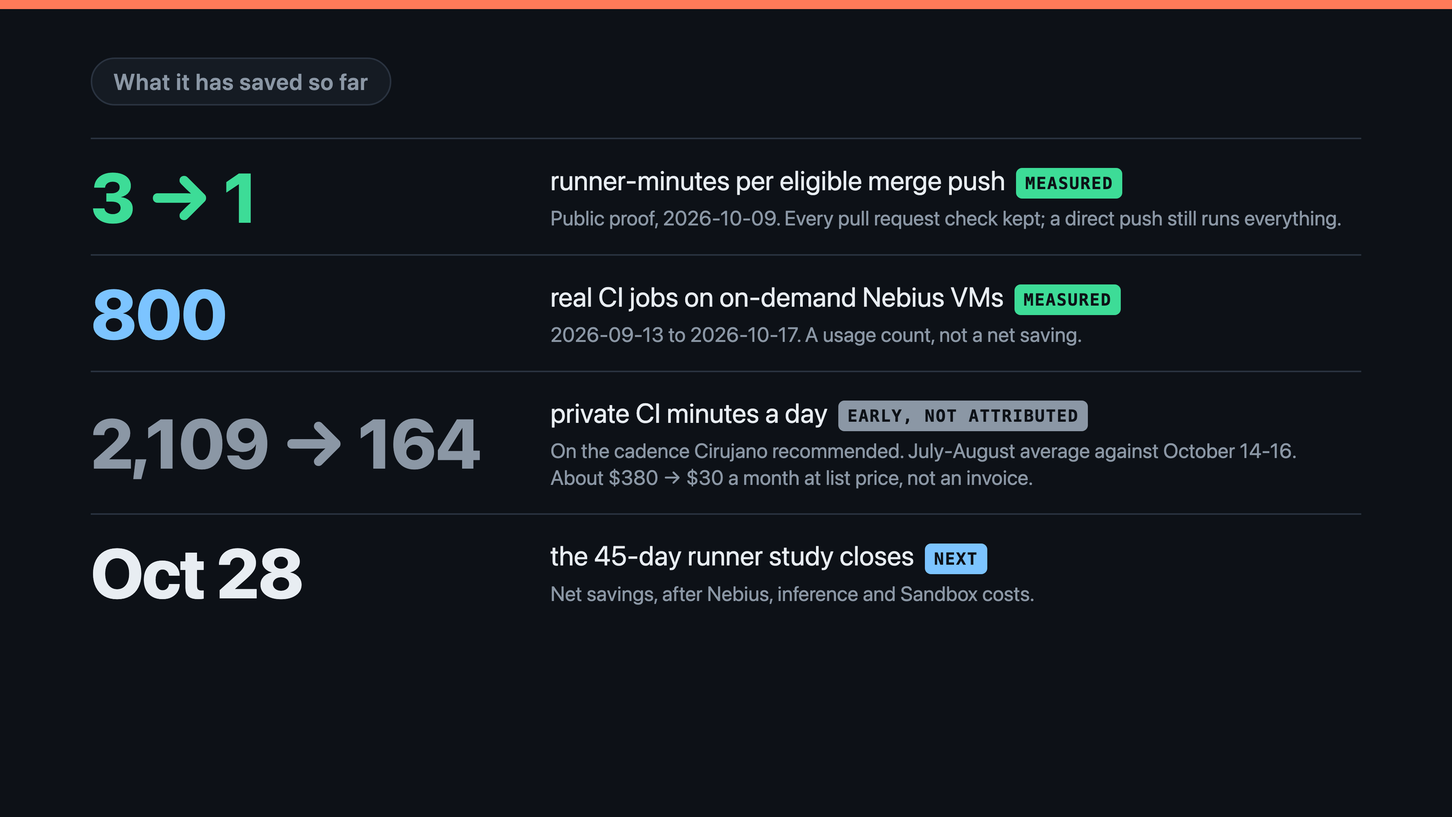
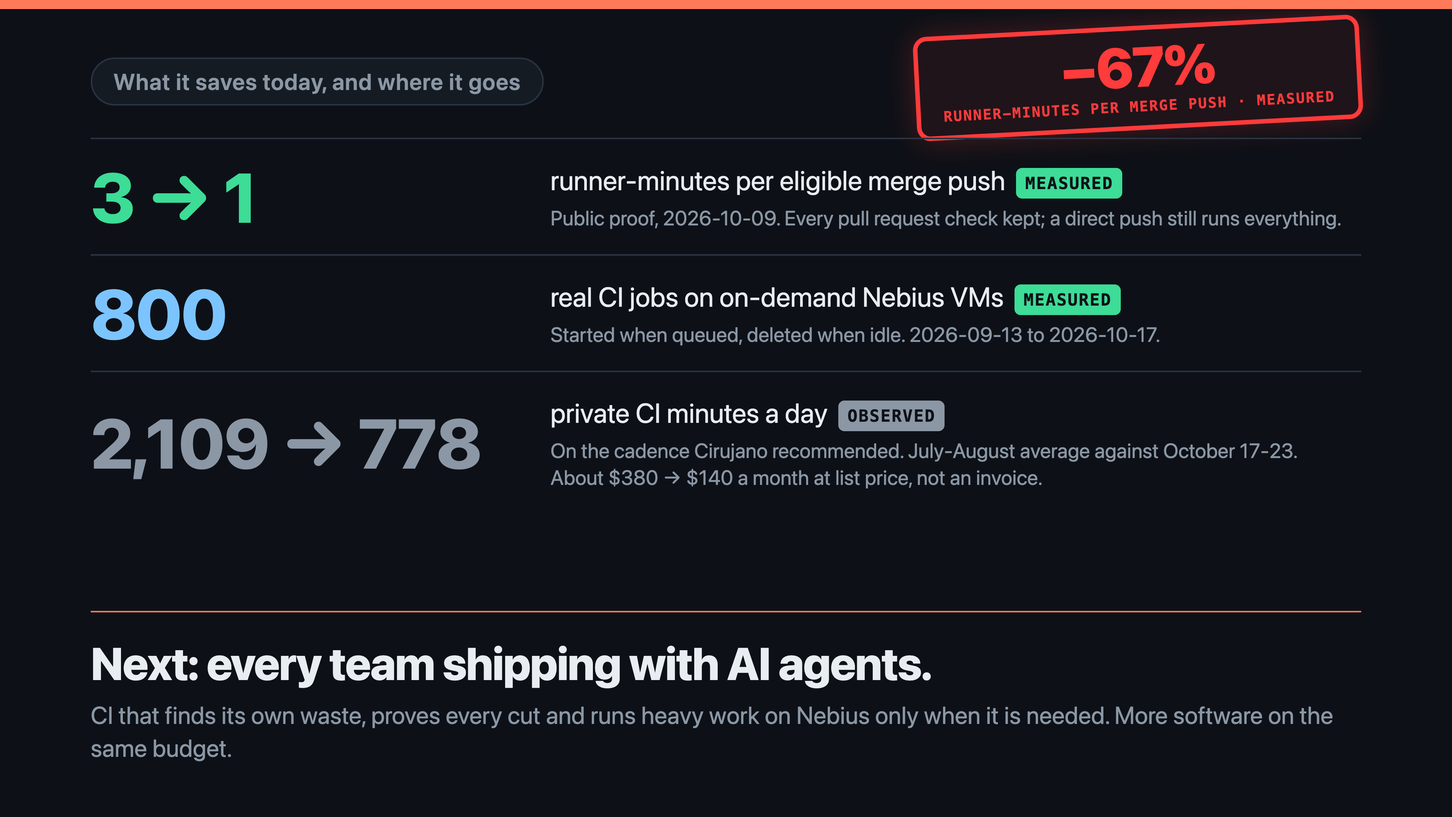
docs(demo): finish the video and record the Devpost submission
- Recording script: beat 5 to 7 split-screen steps, a crash-proof decision
  view for the live runner beat, the correct Nebius project and console URL,
  the together card moved to the end of beat 7, and a vision close for beat 8
- Beat 8 evidence refreshed to October 17-23 (2,109 -> 778 private CI minutes
  a day, about $380 -> $140 a month at list price); the earlier October 14-16
  window was the quietest stretch and is marked superseded
- Results card: red -67% measured stamp, OBSERVED label and a vision footer
- Case study: same refreshed window
- Devpost submission text with an evidence table (850 Nebius jobs as of
  2026-10-24, live 14-minute VM cycle)

Claude-Session: https://claude.ai/code/session_01H8DkZpvQuxZoFbQP57ZCZ9

diff --git a/docs/demo/video-cards/src/results.html b/docs/demo/video-cards/src/results.html
@@ -11,13 +11,20 @@
   .lab.early { background: var(--muted); }
   .lab.next { background: var(--blue); }
   .ok { color: var(--ok); } .blue { color: var(--blue); } .muted { color: var(--muted); }
+  .stamp { position: absolute; top: 22px; right: 120px; transform: rotate(-3deg); border: 6px solid #ff3b3b; border-radius: 18px; padding: 10px 30px 14px; color: #ff3b3b; background: rgba(255,59,59,.08); text-align: center; box-shadow: 0 0 40px rgba(255,59,59,.25); }
+  .stamp b { display: block; font-size: 74px; font-weight: 900; letter-spacing: -.03em; line-height: 1; }
+  .stamp span { display: block; font-family: var(--mono); font-size: 19px; font-weight: 700; letter-spacing: .08em; margin-top: 6px; }
+  .vision { position: absolute; left: 120px; right: 120px; bottom: 70px; border-top: 2px solid var(--accent); padding-top: 34px; }
+  .vision b { display: block; font-size: 60px; font-weight: 800; letter-spacing: -.02em; line-height: 1.1; color: var(--ink); }
+  .vision span { display: block; font-size: 32px; color: var(--muted); margin-top: 14px; line-height: 1.35; }
 </style></head>
 <body>
-  <div class="tag">What it has saved so far</div>
+  <div class="tag">What it saves today, and where it goes</div>
+  <div class="stamp"><b>−67%</b><span>RUNNER-MINUTES PER MERGE PUSH · MEASURED</span></div>
   <div class="wrap">
     <div class="row"><div class="num ok">3 → 1</div><div class="txt">runner-minutes per eligible merge push<span class="lab">MEASURED</span><small>Public proof, 2026-10-09. Every pull request check kept; a direct push still runs everything.</small></div></div>
-    <div class="row"><div class="num blue">800</div><div class="txt">real CI jobs on on-demand Nebius VMs<span class="lab">MEASURED</span><small>2026-09-13 to 2026-10-17. A usage count, not a net saving.</small></div></div>
-    <div class="row"><div class="num muted">2,109 → 164</div><div class="txt">private CI minutes a day<span class="lab early">EARLY, NOT ATTRIBUTED</span><small>On the cadence Cirujano recommended. July-August average against October 14-16.<br>About $380 → $30 a month at list price, not an invoice.</small></div></div>
-    <div class="row"><div class="num">Oct 28</div><div class="txt">the 45-day runner study closes<span class="lab next">NEXT</span><small>Net savings, after Nebius, inference and Sandbox costs.</small></div></div>
+    <div class="row"><div class="num blue">800</div><div class="txt">real CI jobs on on-demand Nebius VMs<span class="lab">MEASURED</span><small>Started when queued, deleted when idle. 2026-09-13 to 2026-10-17.</small></div></div>
+    <div class="row"><div class="num muted">2,109 → 778</div><div class="txt">private CI minutes a day<span class="lab early">OBSERVED</span><small>On the cadence Cirujano recommended. July-August average against October 17-23.<br>About $380 → $140 a month at list price, not an invoice.</small></div></div>
   </div>
+  <div class="vision"><b>Next: every team shipping with AI agents.</b><span>CI that finds its own waste, proves every cut and runs heavy work on Nebius only when it is needed. More software on the same budget.</span></div>
 </body></html>

diff --git a/docs/demo/recording-script.md b/docs/demo/recording-script.md
@@ -29,8 +29,8 @@ Pages Claude loads, in capture order:
 | C | [Evidence PR #8](https://github.com/juan294/cirujano-push-proof/pull/8) | Body at **Model requested**, token counts and the **Sandbox** line, then the measurement table. Read back OPEN on 2026-10-17, base `d5dc444`, head `b359f3b`. |
 | D | [PR #8 Files changed](https://github.com/juan294/cirujano-push-proof/pull/8/files) | The `cirujano_validated_push` job and one added job condition. Do not scroll the embedded classifier. |
 | E | [PR run](https://github.com/juan294/cirujano-push-proof/actions/runs/37920229570), [optimized push](https://github.com/juan294/cirujano-push-proof/actions/runs/37920318553), [direct-push control](https://github.com/juan294/cirujano-push-proof/actions/runs/37920425565) | Lint, test and build green; then the skipped jobs; then every job green on the control. |
-| F | Nebius AI Cloud console → Cirujano project → **Compute → Virtual machines** (Chrome, signed in) | Starts at "No standalone VMs". Used only in beat 6. |
-| G | [Cirujano Actions](https://github.com/juan294/cirujano/actions) | The Sutura rows "Repair requested: CI #110 (failure)" and "No repair needed: CI #114 (success)". |
+| F | Nebius AI Cloud console → project `default-project-eu-west1` (the P5 project) → **Compute → Virtual machines**, URL `console.nebius.com/<project id>/compute` (Chrome, signed in; `/compute/instances` renders blank) | Starts at "No standalone VMs". Used only in beat 6. |
+| G | [Sutura repair monitor runs, October 14-15](https://github.com/juan294/cirujano/actions/workflows/sutura.yml?query=created%3A2026-10-14..2026-10-15) | Five rows: "No repair needed: CI #114 (success)" on top, "Repair requested: CI #110 (failure)" at the bottom. The unfiltered list starts with newer rows (on 2026-10-24 a red `develop` and failed monitor runs), so keep the date filter. |
 
 Terminal (large font, dark theme), in the repository root. Stage the API reads before recording; run only the two `estimate` commands on camera:
 
@@ -43,13 +43,13 @@ node packages/cli/dist/bin.js estimate --jobs /tmp/cirujano-demo-candidate-jobs.
 
 Expected: `Billable minutes: 3` with 0 skipped jobs, then `Billable minutes: 1` with 3 skipped jobs (re-checked 2026-10-17). If `packages/cli/dist` is missing, run `pnpm run build` first. Never fake terminal output.
 
-**Cards** (still 3840x2160 images for the editor) are in [video-cards](video-cards/): `0-intro-card.png` (beat 0, 10 seconds; `0-intro-card-youtube-thumbnail.jpg` is the YouTube thumbnail), `1-vision.png` (beat 1), `2-same-tree-illustration.png` (beat 2, labeled "Illustration"), `3-together.png` (beat 7), `4-results.png` (beat 8) and `5-end-card.png` (beat 8, silent hold). Sources, the stylesheet and the renderer are in [video-cards/src](video-cards/src/); after a text change run `zsh docs/demo/video-cards/src/render.sh`.
+**Cards** (still 3840x2160 images for the editor) are in [video-cards](video-cards/): `0-intro-card.png` (beat 0, 10 seconds; `0-intro-card-youtube-thumbnail.jpg` is the YouTube thumbnail), `1-vision.png` (beat 1), `2-same-tree-illustration.png` (beat 2, labeled "Illustration"), `3-together.png` (beat 7, last 5 seconds), `4-results.png` (beat 8) and `5-end-card.png` (beat 8, silent hold). Sources, the stylesheet and the renderer are in [video-cards/src](video-cards/src/); after a text change run `zsh docs/demo/video-cards/src/render.sh`.
 
 **Live run (beat 6) preflight.** The run starts a billable Nebius VM, so it needs Juan's explicit go at recording time; preparation alone does not authorize it. Check that the P5 controller is alive (`launchctl list | grep cirujano-runner-P5`) and idle with no VM (`tail -1 ~/Library/Logs/cirujano/runner-P5.log` shows `"state":"absent"`; it did at 2026-10-18 13:5x local). The repository and coverage workflow behind handle P5 are in the gitignored `docs/agents/fleet-migration-targets.md`.
 
 ## Script
 
-The narration is 389 words including the intro: 2:36 at 150 words per minute, 3:00 at 130. Eric on ElevenLabs speaks about 2.4 words per second, about 2:40. Beat 8 has 87 words, about 36 seconds of speech, so the end card holds about 10 seconds in silence. Timestamps are editing targets; the recorded clips set the final lengths.
+The narration is 426 words including the intro (beat 6 gained one sentence and beat 8 became a vision close on 2026-10-24): 2:50 at 150 words per minute. Eric on ElevenLabs speaks about 2.4 words per second. Beat 8 has 111 words, 43.4 seconds of speech; fitted to 46 seconds, the end card holds about 2 seconds in silence and the video ends at 2:55. Timestamps are editing targets; the recorded clips set the final lengths.
 
 ### 0. Intro | 0:00-0:10
 
@@ -93,7 +93,40 @@ The narration is 389 words including the intro: 2:36 at 150 words per minute, 3:
 
 ### 5. The receipts | 1:14-1:33
 
-**Show:** the terminal, run both `estimate` commands (3, then 1). Then Tab C's measurement table, pausing on baseline 3 and candidate 1. Then Tab E's direct-push control with every job green.
+**Show: full screen, split.** Left half: Dia with GitHub. Right half: the terminal, covering the Chrome window. No Claude window on screen; you run every step yourself from this list.
+
+Set up before recording (Claude preps the two Dia tabs on "prep 5"; done 2026-10-24):
+
+1. Dia tab 1: [PR #8](https://github.com/juan294/cirujano-push-proof/pull/8) at zoom 1.2 (1.4 is too wide for the half screen and hides the Billed min column), scrolled so the lines "Sandbox: sandbox-verified; network disabled" and "Sandbox guard matrix: 69 cells, 0 mismatches; classifier cases: 60" sit just above the measurement table.
+2. Dia tab 2: the [direct-push control run](https://github.com/juan294/cirujano-push-proof/actions/runs/37920425565) at zoom 1.2, top of the page (lint, test and build green).
+3. Dia tab 1 in front. Mouse pointer off the table.
+4. Terminal on the right half, in the repository root, dark theme, font about 24 pt. Turn off autosuggestions and history overlays (an old command could show a private repository name). The job files in `/tmp` are staged by Claude on "prep 5" (checked 2026-10-24: both present, estimates print 3 and 1):
+
+   ```sh
+   cd ~/code/cirujano
+   clear
+   ```
+
+Recording, about 20 seconds:
+
+1. Start recording. Hold about 5 seconds on the Sandbox lines (sentence 1).
+2. In the terminal, run and hold about 2 seconds. Expect `Billable minutes: 3`, `Skipped jobs: 0`:
+
+   ```sh
+   node packages/cli/dist/bin.js estimate --jobs /tmp/cirujano-demo-baseline-jobs.json
+   ```
+
+3. Run and hold about 2 seconds. Expect `Billable minutes: 1`, `Skipped jobs: 3`:
+
+   ```sh
+   node packages/cli/dist/bin.js estimate --jobs /tmp/cirujano-demo-candidate-jobs.json
+   ```
+
+4. In Dia, scroll a little so the baseline rows (3) and candidate rows (1) sit in the middle. Hold about 4 seconds.
+5. Click Dia tab 2, the control run. Hold about 4 seconds on the green lint, test and build jobs.
+6. Stop recording. Save as `~/Desktop/Cirujano Demo/split-5.mp4`.
+
+If the clip is shorter than about 19 seconds, `fit-voice.sh 5` speeds the voice up to 1.2; past that, cut "Then GitHub measured it." from the Say block.
 
 **Say:**
 
@@ -103,26 +136,48 @@ The narration is 389 words including the intro: 2:36 at 150 words per minute, 3:
 
 **Show: a live run, split screen, sped up.** Left half: the terminal with the controller's decision view (below). Right half: Tab F, **Virtual machines**, starting from "No standalone VMs". Caption in the editor: **Live run, sped up**.
 
-1. Start the decision view in the left terminal:
+Set up before recording (Claude checks the controller and parks the Chrome tab on "prep 6"):
+
+1. Chrome (right half): signed in to the Nebius console, project `default-project-eu-west1`, **Compute → Virtual machines**, showing "No standalone VMs". Chrome zoom 125% (Cmd+= twice; it survives reloads). Claude parks this tab. Do not touch it during the take; Claude reloads it.
+2. Terminal (left half, covering Dia): dark theme, font about 24 pt, autosuggestions off. Start the decision view and leave it running:
 
    ```sh
-   tail -n 0 -F ~/Library/Logs/cirujano/runner-P5.log | jq -r --unbuffered 'select(.decision) | "\((.queue.observedAtMs // 0)/1000 | strftime("%H:%M:%S"))  \(.decision.state)  \(.decision.effect.type)  \(.decision.reason)"' | awk '{k=$0; sub(/^[^ ]+  /,"",k); if(k!=p){print; fflush(); p=k}}'
+   clear
+   tail -n 0 -F ~/Library/Logs/cirujano/runner-P5.log | jq -R -r --unbuffered 'fromjson? | select(.decision) | "\((.queue.observedAtMs // 0)/1000 | strftime("%H:%M:%S"))  \(.decision.state)  \(.decision.effect.type)  \(.decision.reason)"' | awk '{k=$0; sub(/^[^ ]+  /,"",k); if(k!=p){print; fflush(); p=k}}'
    ```
 
-   It prints one line per state change (UTC) and no repository name.
-2. After Juan's go, Claude dispatches the P5 coverage workflow off camera: `gh workflow run <P5 coverage workflow> -R <P5 repository> --ref develop`. A manual run of an existing workflow, no commit. The enrolled job runs on the Cirujano label only for a `develop` push or an owner `workflow_dispatch`.
-3. Claude reloads the Virtual machines page every 8 to 10 seconds, with a 3-second settle after each reload, in short batches (a browser action times out after about 90 seconds).
-4. Expected sequence, from the 2026-10-18 cycle on P5: `create-vm` within 30 seconds of dispatch; VM **Running** about 2.5 minutes in; `register-runner` and `busy` about 4 minutes in; job done and `begin-drain` about 6.5 minutes in; `stop-vm` after the idle grace, about 13 minutes in; `delete-vm` about 14 minutes in, and the console is empty again.
+   It prints one line per state change (UTC) and no repository name. `fromjson?` skips the plain-text lines the controller writes when it restarts; without it `jq` stops at the first one.
+3. The Claude window stays off screen (another desktop) but reachable: you type "go 6" in it.
+
+Recording, about 15 minutes of real time:
+
+1. Start recording. Hold about 5 seconds on the empty terminal and "No standalone VMs".
+2. Type "go 6" in the off-screen Claude window, then return to the recorded screen. This is the authorization for the billable VM.
+3. Claude dispatches the P5 coverage workflow off camera (`gh workflow run` on the P5 repository, `--ref develop`; a manual run of an existing workflow, no commit) and reloads the Virtual machines page every 8 to 10 seconds, with a 3-second settle after each reload.
+4. Do nothing on screen. Expected sequence, from the 2026-10-18 and 2026-10-23 cycles on P5: `create-vm` within 30 seconds of dispatch; VM **Running** about 2.5 minutes in; `register-runner` and `busy` about 5 minutes in; job done and `begin-drain` about 9 minutes in; `stop-vm` after the idle grace, about 13 to 28 minutes in; `delete-vm` about 2 minutes after `stop-vm`, and the console shows "No standalone VMs" again. A `blocked` line can appear for one tick between `busy` and `begin-drain`; it clears on its own.
+5. When Claude answers "done" (the `delete-vm` line is printed and the console is empty), hold 3 seconds and stop recording. Save as `~/Desktop/Cirujano Demo/split-6.mp4`. Stop the decision view with Ctrl+C.
 
 Compress the 14 minutes to about 20 seconds; keep the `create-vm`, `busy`, `stop-vm` and `delete-vm` lines readable for a second each. The GitHub run page names the private repository, so it stays off camera. Fallback if the run is not authorized or fails: use the runner pilot record ([R14 rows](../research/2026-09-15-nebius-runner-pilot-r14.md)) with the caption **Recorded, 2026-09-15**, and change "This is live" to "Here it is".
 
 **Say:**
 
-> Work that can't be cut moves to Nebius AI Cloud. This is live: a job queues, Cirujano starts a VM, the job runs, and once the queue is empty the VM stops and is deleted. 800 of my real CI jobs have already run this way.
+> Work that can't be cut moves to Nebius AI Cloud. This is live: a job queues, Cirujano starts a VM, the job runs, and once the queue is empty the VM stops and is deleted. The whole cycle took fourteen minutes, shown here sped up. 800 of my real CI jobs have already run this way.
 
 ### 7. Sutura and Cirujano | 1:53-2:08
 
-**Show:** `3-together.png`, then Tab G with the two Sutura rows. Do not start a Sutura walkthrough.
+**Show:** Tab G in Dia with the two Sutura rows, then `3-together.png` as an editor cutaway over the last 5 seconds of the clip, on "The developer is the doctor" (its middle panel reads "Developer, Signs off"). The cutaway covers clip time; it does not add length. Do not start a Sutura walkthrough.
+
+Set up before recording (Claude parks the tab on "prep 7"; done 2026-10-24):
+
+1. Dia (left half): Tab G at zoom 1.2, date filter `created:2026-10-14..2026-10-15` in the search box, the GitHub notice banner dismissed. Do not reload (page-code zoom resets).
+2. Right half: anything neutral, or Dia full screen. Mouse pointer off the rows.
+
+Recording, about 15 seconds:
+
+1. Start recording. Hold about 3 seconds on the whole list.
+2. Move the pointer to the bottom row, "Repair requested: CI #110 (failure)", and hold about 4 seconds (sentence 1: Sutura triages red CI).
+3. Move the pointer to the top row, "No repair needed: CI #114 (success)", and hold about 4 seconds.
+4. Move the pointer away and hold about 4 seconds. Stop recording. Save as `~/Desktop/Cirujano Demo/split-7.mp4`.
 
 **Say:**
 
@@ -130,11 +185,11 @@ Compress the 14 minutes to about 20 seconds; keep the `create-vm`, `busy`, `stop
 
 ### 8. What it saved me, and close | 2:08-2:55
 
-**Show:** `4-results.png`. Point at the measured line first, then the early line with its **EARLY, NOT ATTRIBUTED** label in frame, then **Oct 28**. Cut to `5-end-card.png` on "Cirujano: keep every check" and hold it in silence to 2:55.
+**Show:** `4-results.png`: the red −67% stamp and the 3 → 1 row first, then 2,109 → 778 (**OBSERVED**), then the vision line "Next: every team shipping with AI agents" on "Now scale that". Cut to `5-end-card.png` on "Cirujano: keep every check" and hold it in silence to 2:55. No screen recording: beat 8 is the two cards over `voice-8.mp3` (45.9 s, fitted with `fit-voice.sh 8=46`). In that file "Now scale that" starts at 20.6 s, "Cirujano: keep every check" at 36.7 s and "Thank you" ends at 44.0 s: show the vision line from 20.6 s and cut to the end card at 36.7 s.
 
 **Say:**
 
-> What has it saved me? Measured: two of every three runner-minutes on merged pushes, with every check kept. Observed: on the new cadence, my private repositories used 164 CI minutes a day instead of about 2,100, roughly 30 dollars a month instead of 380 at list price. Activity changed too, so I don't count that as Cirujano's saving yet. Next, the runner study closes on October 28 to measure net cost. Cirujano: keep every check, cut every wasted dollar. Built on Nebius, with NVIDIA Nemotron. Thank you.
+> What has it saved me? On the proof, two of every three runner-minutes on merged pushes, with every check kept. And since my private repositories moved to the cadence Cirujano recommended, CI dropped from about 2,100 minutes a day to under 800, from about 380 dollars a month to 140. Now scale that. Every team shipping with AI agents pays to run the same checks again and again. Cirujano turns that waste into shipped software: CI that finds its own waste, proves every cut, and runs heavy work on Nebius only when it is needed. Cirujano: keep every check, cut every wasted dollar. Built on Nebius, with NVIDIA Nemotron. Thank you.
 
 ## Rehearse three times, then capture
 
@@ -143,7 +198,7 @@ Compress the 14 minutes to about 20 seconds; keep the `create-vm`, `busy`, `stop
 3. **Full practice.** Speak while switching views. Watch it back once: can a stranger see the guard in the diff, see 3 become 1, see a VM start and stop on Nebius, and tell measured savings from the early observation? Re-record the weak beat, not the whole video.
 4. **Capture.** One clip per beat. Measure them before the voice-over: `for i in 1 2 3 4 5 6 7 8; do ffprobe -v error -show_entries format=duration -of csv=p=0 ~/Desktop/"Cirujano Demo"/split-$i.mp4; done`. Beats 1 to 8 plus the 10-second intro must stay under 3:00; take any excess from beat 8's silent end-card hold.
 
-**Refresh the account numbers the morning you record.** Beat 8 uses October 14-16. Ask Claude to re-read the billing API; if the window changes, update the Say block, `results.html` and the Evidence table together, then re-render the cards.
+**Refresh the account numbers the morning you record.** Beat 8 uses October 17-23 (refreshed 2026-10-24; the earlier October 14-16 window, 164 minutes a day, turned out to be the quietest stretch and was replaced). Ask Claude to re-read the billing API; if the window changes, update the Say block, `results.html` and the Evidence table together, then re-render the cards.
 
 ## Voice-over and assembly
 
@@ -194,14 +249,14 @@ The Cirujano proof did not use Sutura's Nemotron Super and Ultra roles, Nebius C
 | Measured mechanism | **3 → 1** rounded runner-minutes per eligible merge push (66.7%) | Three sampled pushes on a public repository: **$0** invoice effect. Direct-push control billed 4. Not human waiting time. |
 | Measured usage | **800** Cirujano jobs, 3,297 minutes on Nebius VMs, 2026-09-13 to 2026-10-17 | A usage count. Fleet report: **$18.84** gross hosted list cost avoided against **$19.87** controller-accounted Nebius cost; accounting incomplete, net savings unavailable. |
 | Measured inference | **$0.00012**, 1,115 tokens for the live Nemotron decision | One proof decision, not a fleet cost. |
-| Observed, not attributed | Private-repository CI **2,109 → 164** minutes a day (about **$380 → $30** a month at list price) | July-August average against October 14-16. Activity not normalized; release work in the heaviest repository was paused. List price before included minutes and provider costs. |
+| Observed, not attributed | Private-repository CI **2,109 → 778** minutes a day (about **$380 → $140** a month at list price) | July-August average against October 17-23, the first seven full days with the lean cadence on every private repository. Daily values that week ranged from 157 to 1,297 minutes. Activity not normalized. List price before included minutes and provider costs. |
 | GitHub Actions bill | Net **$370.64** July, **$401.78** August, **$81.16** September, **$102.08** October 1-18 | The September drop started before any Cirujano change shipped. Do not attribute it. |
 | Modeled | About **$120** a month net from packing heavy jobs onto shared VMs | Assumes four concurrent runner slots; implemented runners have one slot per enrollment. |
 | Pending | Net runner savings and developer hours | The 45-day runner window closes 2026-10-28; closing it does not guarantee a complete net result. Hours are unmeasured. |
 
 If a judge asks "How much has it saved you?":
 
-> On the controlled proof, two of every three runner-minutes on eligible merge pushes, with every check kept. Since my private repositories moved to the cadence Cirujano recommended, CI fell from about 2,100 minutes a day to 164, but activity also changed, so I don't claim it as a Cirujano saving. The runner study reports net cost after October 28.
+> On the controlled proof, two of every three runner-minutes on eligible merge pushes, with every check kept. Since my private repositories moved to the cadence Cirujano recommended, CI fell from about 2,100 minutes a day to about 780 in the first full week, but activity also changed, so I don't claim it as a Cirujano saving. The runner study reports net cost after October 28.
 
 ## How the products work together
 
@@ -217,9 +272,9 @@ If a judge asks "How much has it saved you?":
 | Tempting line | Why not |
 | --- | --- |
 | "Cirujano cut my bill from $386 to $81." | September's drop began before any Cirujano change shipped; the heaviest repository fell to about 10 minutes a day from 2026-08-22. |
-| "It saves me $350 a month" or "$4,000 a year." | The 164-minute window is three days, activity is not normalized and the figure is list price. |
+| "It saves me $240 a month" or "$2,900 a year." | The 778-minute window is one week, activity is not normalized and the figure is list price. Do not quote the old 164-minute figure: it was the quietest three days. |
 | "The runners save money" or "break even." | $18.84 avoided against $19.87 of Nebius cost, with incomplete accounting. |
-| "92 percent cheaper" or "CI is 67 percent faster." | 92 percent is the unattributed observation; 66.7 percent is rounded runner-minutes on three sampled pushes, not delivery time. |
+| "63 percent cheaper" or "CI is 67 percent faster." | 63 percent is the unattributed observation; 66.7 percent is rounded runner-minutes on three sampled pushes, not delivery time. |
 | "Sutura fixed my failing runs." | The Actions rows show a repair request, not a completed repair. |
 | "Cirujano is the nurse" or "Sutura is the surgeon." | Owner metaphor rule, 2026-10-18. |
 | Calling recorded footage live. | Only beat 6 is executed during the recording. PR #8 and its runs are a recorded live result from 2026-10-09. |
@@ -240,7 +295,7 @@ If a judge asks "How much has it saved you?":
 | VM starts on queue, stops and is deleted when idle | P5 controller log, 2026-10-18: `create-vm` 09:25:05Z, `busy` 09:29:20Z, `stop-vm` 09:38:06Z, `delete-vm` 09:39:15Z; [runner pilot](../research/2026-09-15-nebius-runner-pilot-r14.md) | VERIFIED 2026-10-18 |
 | 800 real CI jobs on Nebius | Scheduled fleet telemetry, 2026-09-13 to 2026-10-17T04:17Z: 800 Cirujano jobs, 3,297 minutes | VERIFIED usage; not a savings claim |
 | Audit recommended the cadence; Sutura coordinates it and requests repairs | [Cadence assessment](../research/2026-10-02-ci-cadence-assessment.md); owner decision 2026-10-16; public Actions row "Repair requested: CI #110 (failure)", 2026-10-14 | VERIFIED; a request is not a completed repair |
-| 164 instead of about 2,100 minutes a day; $30 instead of $380 at list price | Billing usage API, private repositories: 2,109 min and $12.66 list a day (July-August) against 164 min and $0.98 a day (October 14-16), times 30 | VERIFIED observation 2026-10-17; NOT attributed |
+| About 780 instead of about 2,100 minutes a day; $140 instead of $380 at list price | Billing usage API, private repositories: 2,109 min and $12.66 list a day (July-August) against 778 min and $4.67 a day (October 17-23), times 30. Same method reproduces the earlier 164-minute figure for October 14-16 | VERIFIED observation 2026-10-24; NOT attributed |
 | Runner study closes October 28 | 45-day matched window of the enrolled migrations | VERIFIED date; result pending |
 
 **Gross, discount and net, re-derived 2026-10-18** from the billing usage API pulls of 2026-10-17. Fully discounted usage (free public-repository minutes) grew from $132.57 gross in August to $284.30 in September; the remaining gross fell from $414.32 to $89.03. The larger "discount" is therefore mostly public minutes, which cost nothing, and the bill fell because private usage fell. Neither product is credited with it.

diff --git a/docs/demo/devpost-submission.md b/docs/demo/devpost-submission.md
@@ -1,0 +1,117 @@
+# Cirujano: Devpost submission text
+
+Prepared 2026-10-24 for the Nebius x NVIDIA Global AI Hackathon (track: Coding and Agentic Engineering). Evidence refreshed the same day; sources are in the table at the end. Private repository names stay out of this file.
+
+## Project name
+
+Cirujano
+
+## Elevator pitch (200 characters max)
+
+AI surgeon for your CI bill: NVIDIA Nemotron finds the waste, Nebius Sandboxes prove every cut keeps every check, and heavy jobs run on Nebius VMs that exist only while they work.
+
+## Video
+
+https://youtu.be/9c0nXuZfiOU
+
+## About the project
+
+## Inspiration
+
+I run more than twenty projects with AI coding agents. They push all day, and every push ran the full CI suite again. My GitHub Actions bill hit **$370 in July and $402 in August**. The agents made me faster, and CI made me pay for it twice.
+
+Every team adopting coding agents is heading for the same wall: more pushes, the same checks run over and over, and a bill that grows with every commit. Deleting tests is not the answer. Cutting the waste is.
+
+## What it does
+
+**Cirujano** (Spanish for *surgeon*) operates on CI that works but costs too much. Its sibling entry, [Sutura](https://github.com/juan294/sutura), is the nurse for CI that breaks. The developer is the doctor who signs off on both.
+
+1. **Diagnose.** Cirujano reads GitHub Actions billing and run history and ranks where the minutes go.
+2. **Prescribe.** **NVIDIA Nemotron on Nebius Token Factory** proposes one bounded, supported cut, or abstains when nothing is safe.
+3. **Prove.** Cirujano builds the patch itself, verifies it in **Nebius Token Factory Sandboxes** with the network off, then measures it on real runs.
+4. **Ship.** It opens a pull request with before and after minutes. A developer approves it. Cirujano never auto-merges.
+5. **Relocate.** Heavy work that can't be cut moves to **Nebius AI Cloud** VMs that are created when a job queues and deleted when the queue is empty. You pay only while work runs.
+
+## The results so far
+
+- **−67% runner-minutes on merged pushes.** On the [public proof](https://github.com/juan294/cirujano-push-proof/pull/8), each eligible merge push dropped from 3 billed minutes to 1, and every pull request check was kept. A direct push still runs everything.
+- **129 Sandbox scenarios, zero mismatches** before the guard ever touched a real run.
+- **A whole optimization decision for $0.00012:** one Nemotron call, 1,115 tokens.
+- **850 real CI jobs on Nebius.** About 3,500 job-minutes from 8 repositories have run on on-demand Nebius VMs since September 13. The video shows a live cycle: VM created, job run, VM deleted, 14 minutes end to end.
+- **From about 2,100 to under 800 CI minutes a day.** Since my private repositories moved to the cadence Cirujano recommended, CI fell from a July-August average of 2,109 minutes a day to 778 (October 17-23). That's roughly **$380 down to $140 a month** at list price.
+- **It knows when to say no.** When an earlier idea, dependency caching, measured 3 minutes against 3, Cirujano opened no pull request. Every cut it ships has receipts.
+
+## How I built it
+
+- **TypeScript 6 / Node 22 monorepo** with a core library, a CLI and a GitHub Action, tested with Vitest and bundled with esbuild.
+- **NVIDIA Nemotron 3 Nano 30B A3B** through the OpenAI-compatible Nebius Token Factory API, with grammar-constrained JSON output. The model chooses from a closed set of operations. It never writes YAML.
+- **A deterministic workflow classifier and patch builder** turn the model's choice into a minimal, reviewable diff that preserves what the workflow means.
+- **Nebius Token Factory Sandboxes** run a push-guard harness in disposable, network-disabled images built server-side, across a 69-cell guard matrix and 60 classifier cases.
+- **Billing truth from job timestamps.** GitHub's run timing endpoint reports zero, so Cirujano rebuilds billable minutes per job, rounded up the way GitHub bills.
+- **On-demand runner controller.** A small control loop watches the queue, creates a Nebius AI Cloud VM with cloud-init, registers a one-job GitHub runner, then drains, stops and deletes it when idle. Every controller works under a signed permit with a cost cap.
+
+## Challenges I ran into
+
+- **The billing data lied.** `/actions/runs/{id}/timing` returns `total_ms: 0` on current GitHub, so I rebuilt cost from per-job start and end times.
+- **Making a cheap change safe.** The merge-run guard skips work only when that exact tree already passed its pull request. Any missing proof, error or timeout means every job runs.
+- **Constrained decoding quirks.** The Nemotron grammar rejected `uniqueItems`, and enum arrays could loop until `maxItems`, so I redesigned the schema around them.
+- **Real infrastructure edges.** The Sandboxes request limit (about 1 MiB), self-hosted runner versions that GitHub retires server-side, and a regional public-IP quota all shaped the design.
+
+## Accomplishments that I'm proud of
+
+- An optimizer that is allowed to say **no**, with abstention and no-improvement outcomes built in.
+- A real cut with receipts, proven twice: first in Sandboxes, then on real billed runs.
+- A real fleet: 850 production CI jobs on Nebius, not a toy demo.
+
+## What I learned
+
+- Most CI waste is re-verification, not slow tests.
+- A model choosing among safe operations, plus a deterministic builder, beats a model writing config.
+- Measure in billed, rounded minutes. Seconds saved don't always mean dollars saved.
+
+## What's next for Cirujano
+
+Every team shipping with AI agents should get CI that finds its own waste, proves every cut and runs heavy work only when it's needed: more software on the same budget.
+
+- Ship Cirujano as an install-and-go GitHub Action: a ranked waste report on day one and verified pull requests after.
+- More cut families: path filters, right-sized test shards, and duplicate push and pull request runs.
+- Pack heavy jobs onto shared Nebius VMs. My model shows about $120 a month net for my own fleet.
+- Close the 45-day runner study on October 28 with full net cost.
+- Join up with Sutura: one loop that heals red CI and trims green CI, with the developer approving every change.
+
+## Built with
+
+typescript, node.js, pnpm, nvidia-nemotron, nebius-token-factory, nebius-token-factory-sandboxes, nebius-ai-cloud, github-actions, github-rest-api, github-cli, cloud-init, vitest, esbuild, yaml
+
+## Try it out links
+
+- https://github.com/juan294/cirujano
+- https://github.com/juan294/cirujano-push-proof/pull/8
+
+## Feedback on Nebius Token Factory, Nebius AI Cloud and NVIDIA tools
+
+What worked: Token Factory's OpenAI-compatible API made Nemotron a drop-in. Sandboxes gave me exactly what a CI optimizer needs: disposable, network-disabled environments with walkable image lineage, so every verification is reproducible. Nebius AI Cloud CPU VMs started fast enough for queue-triggered runners. One Nemotron decision cost $0.00012.
+
+What would help:
+
+1. **Model IDs.** The console shows hyphens where the API uses underscores (for example "Nemotron-3.5-Lightning" in the console against `nvidia/Nemotron-3_5-Lightning` in the API). The hyphenated ID returns a 404 "model does not exist". Showing the exact API ID in the console, or accepting both, would save every newcomer an hour.
+2. **Constrained decoding.** The Nemotron 3 Nano grammar rejects `uniqueItems` with a 400 but enforces `maxItems`, and enum arrays can repeat until they hit `maxItems`. A documented list of supported JSON Schema keywords would help.
+3. **Sandboxes request size.** `POST /v1/instances` rejects bodies above about 1 MiB with a 413. The limit and the `/v1/files` plus `files` map workaround deserve a line in the docs.
+4. **Sandboxes images.** Importing a Docker Hub image by digest returns 404 and `FROM image@sha256:` breaks `contree build`, while tags work. Digest pinning matters for reproducible verification.
+5. **Sandboxes API shapes.** Running operations report `duration: -1` and clean exits report `signal: -1`. Documenting these sentinels would prevent fixture drift.
+6. **AI Cloud quota.** eu-west1 has a hard quota of 3 public IPv4 addresses per project, which capped me at three concurrent runner VMs. Surfacing this in the VM create flow, or allowing egress without a public IP by default, would help CI-runner workloads.
+7. **Reasoning models.** Nemotron 3.5 Lightning puts its chain of thought in `message.content` and bills it as reasoning tokens. A small `max_tokens` returns only preamble. A documented switch to suppress or separate the trace would help, like the `enable_thinking: false` template flag that works on Nano.
+
+## Evidence for every number
+
+| Claim | Source | Checked |
+| --- | --- | --- |
+| $370 July, $402 August | Billing usage API; `docs/research/2026-09-08-github-actions-cost-baseline.md` ($370.64, $401.78) | 2026-10-17 |
+| 3 → 1 runner-minutes, every check kept | PR #8 on `juan294/cirujano-push-proof`; candidate runs 37920072110, 37920192411, 37920318553; control 37920425565; `cirujano estimate` | 2026-10-24 |
+| 129 scenarios, zero mismatches | PR #8: 69 matrix cells and 60 classifier cases | 2026-10-17 |
+| $0.00012, 1,115 tokens | PR #8 model record | 2026-10-17 |
+| 850 jobs, about 3,500 minutes, 8 repositories | Fleet telemetry 2026-09-13 to 2026-10-24T04:24Z: 849 Cirujano jobs, 3,518 minutes; plus run 40071041431 on 2026-10-24 | 2026-10-24 |
+| Live cycle, 14 minutes | P5 controller log 2026-10-24: `create-vm` 06:39:38Z to `delete-vm` 06:53:33Z after dispatch at 06:39:08Z | 2026-10-24 |
+| 2,109 → 778 minutes a day; about $380 → $140 a month | Billing usage API, private repositories: July-August average against October 17-23, list price | 2026-10-24 |
+| Cache idea saved nothing, no PR | `docs/demo/nemotron-optimization.md` (3 against 3 rounded minutes) | 2026-10-17 |
+| About $120 a month modeled | Recording script "Time and money" table; assumes four runner slots per VM | Modeled, not measured |

diff --git a/docs/cirujano-savings-case-study.md b/docs/cirujano-savings-case-study.md
@@ -183,12 +183,14 @@ benefits have not been measured.
   records the window and limitations without exposing private repositories.
 - **Observed, not attributed:** Cirujano's 2026-10-02 cadence assessment
   recommended fast checks on routine pushes and the full suite nightly and at
-  release. In the first days with every private repository on that cadence
-  (2026-10-14 to 2026-10-16), private-repository CI used 164 minutes a day
-  against a July-August average of 2,109 (about $30 against $380 a month at
-  list price, before included minutes and provider costs). Release activity in
-  the heaviest repository was paused and activity is not normalized, so this is
-  an observed usage drop, not a measured Cirujano saving.
+  release. In the first full week with every private repository on that cadence
+  (2026-10-17 to 2026-10-23), private-repository CI used 778 minutes a day
+  against a July-August average of 2,109 (about $140 against $380 a month at
+  list price, before included minutes and provider costs). Daily usage that
+  week ranged from 157 to 1,297 minutes. An earlier three-day window
+  (2026-10-14 to 2026-10-16, 164 minutes a day) was the quietest stretch and
+  is superseded. Activity is not normalized, so this is an observed usage
+  drop, not a measured Cirujano saving.
 - **Pending for Cirujano:** Complete matched before-and-after net savings from
   the enrolled migrations, whose 45-day window closes on 2026-10-28; measured
   developer hours recovered; and outcomes on larger private workflows.
